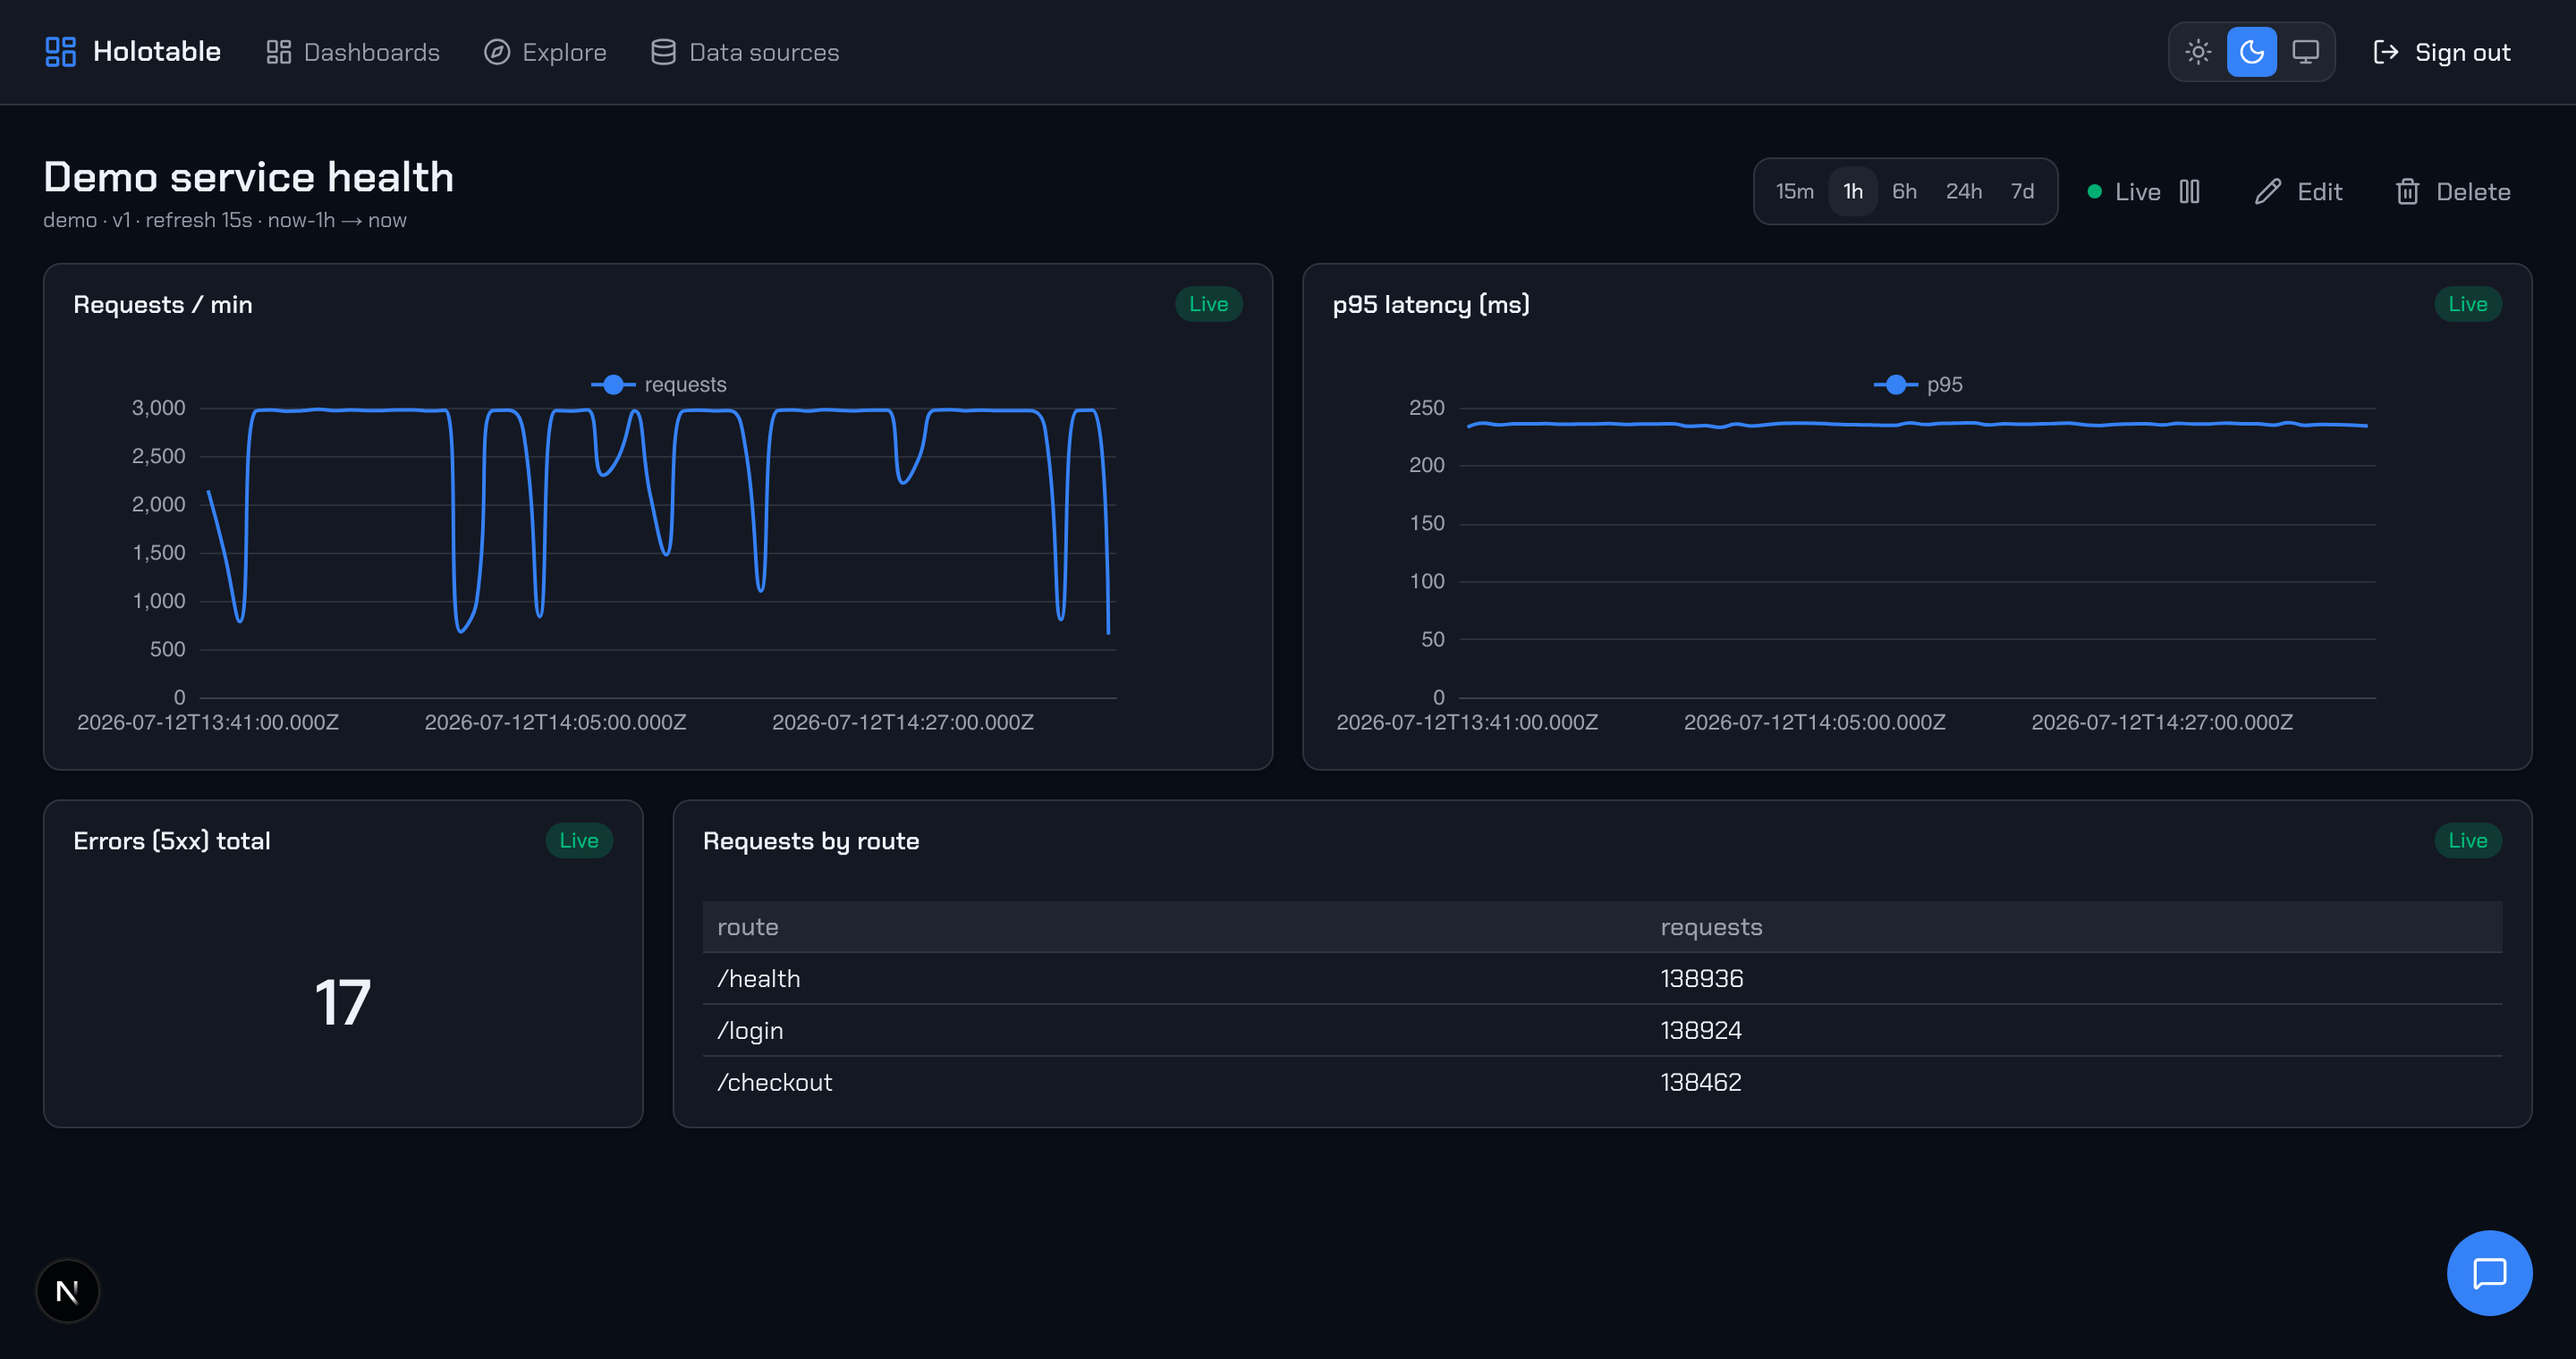
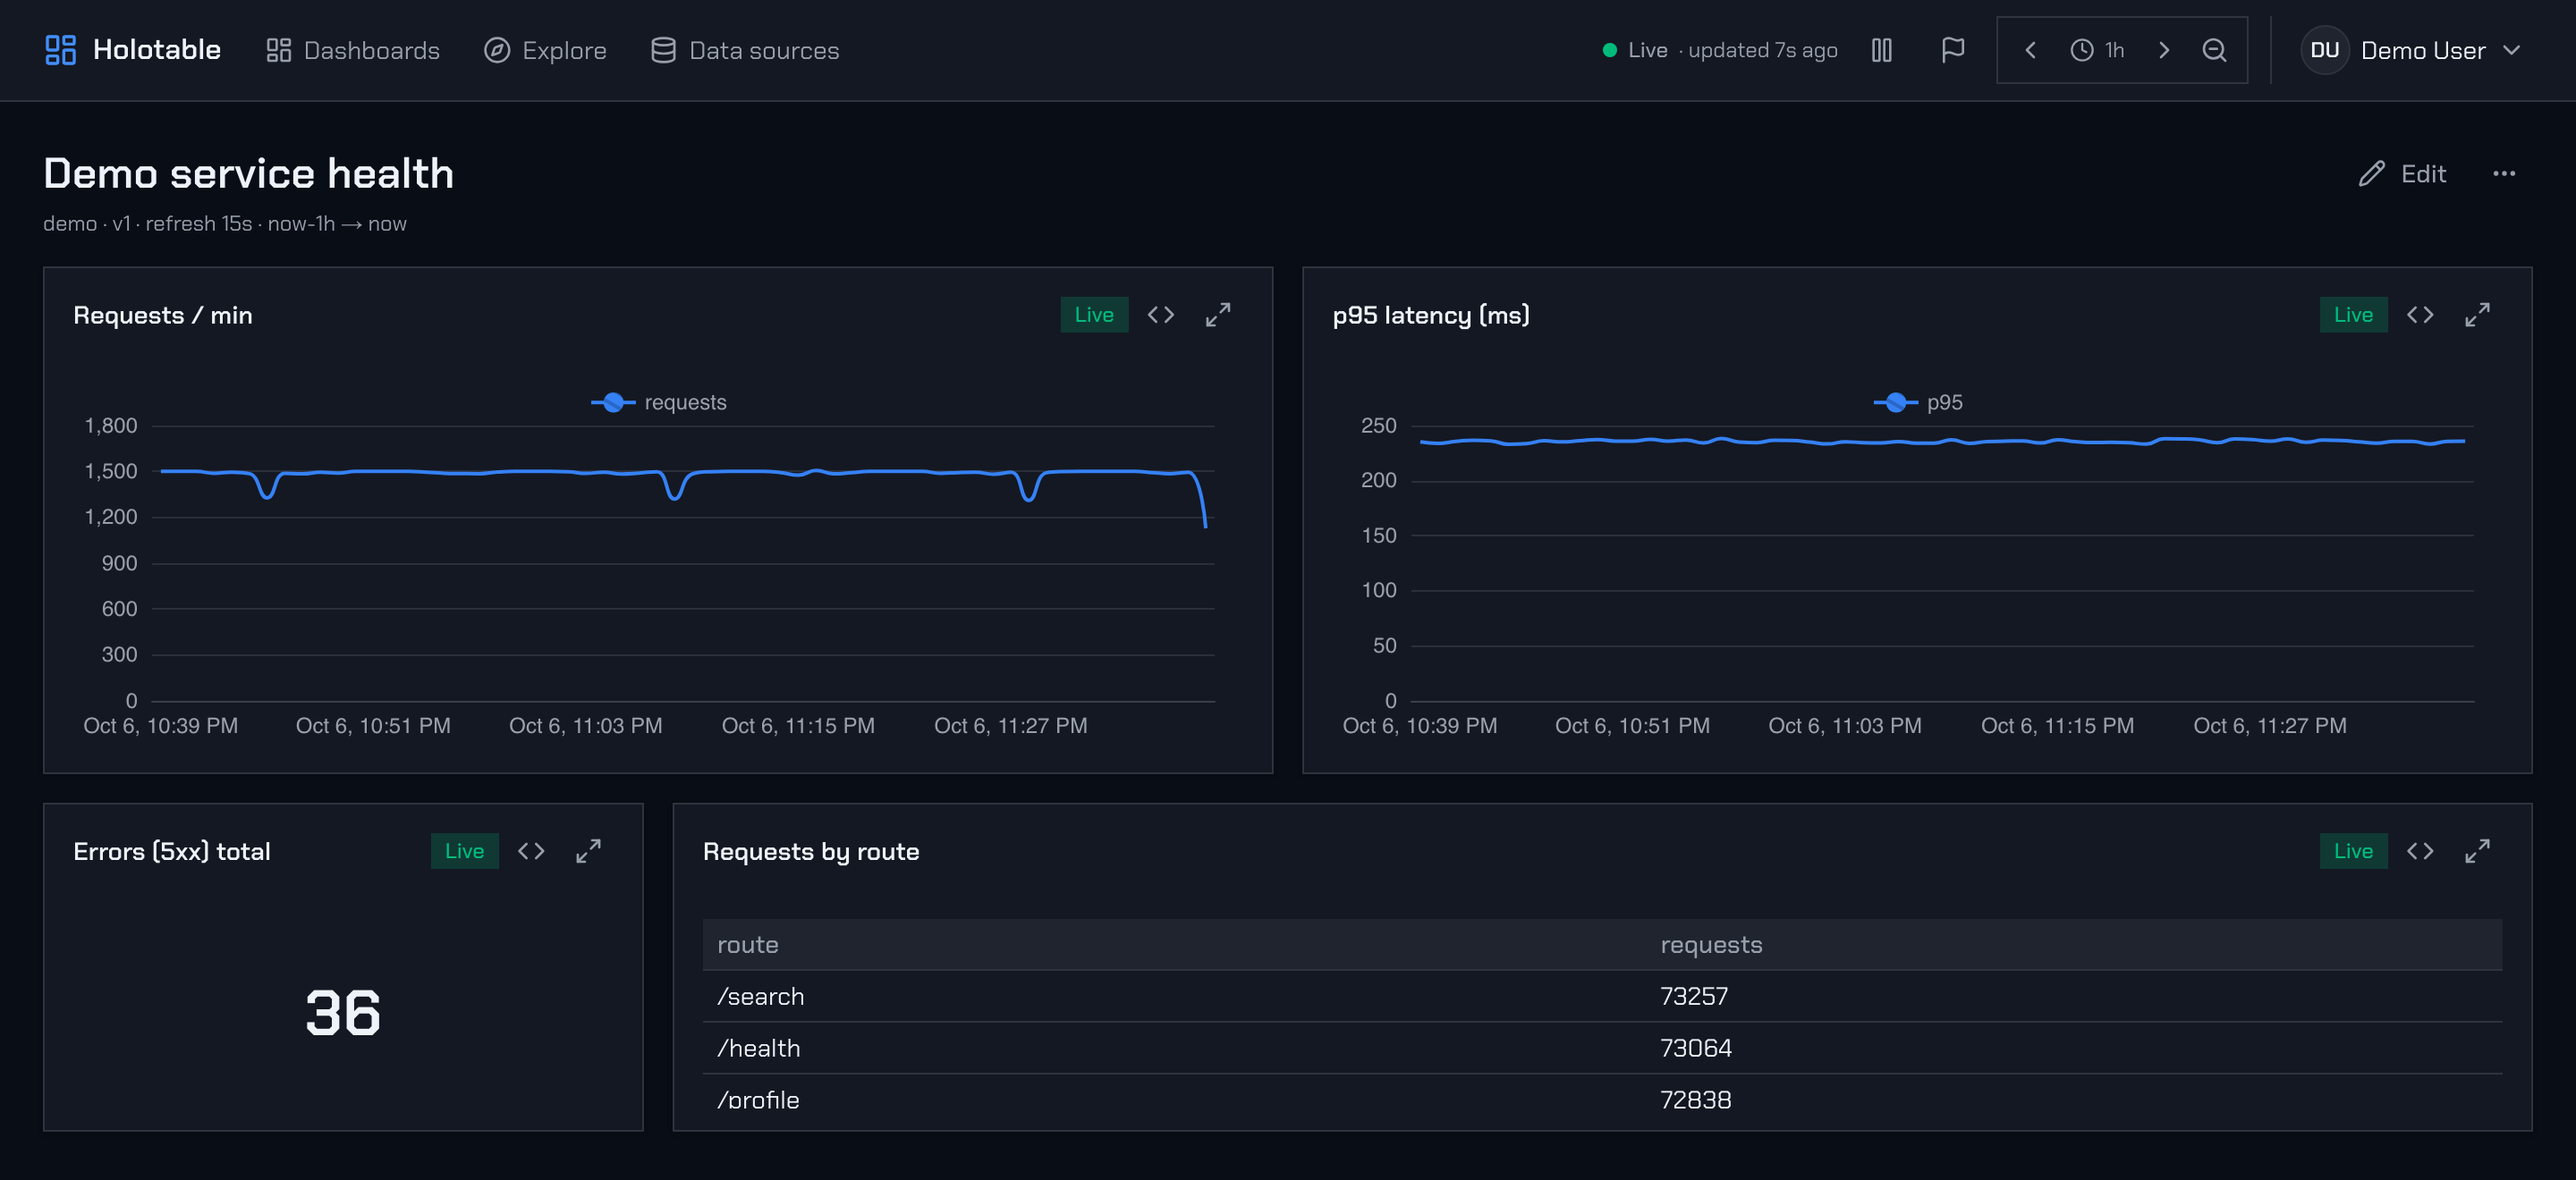
docs: refresh the screenshots and move links to the new docs URL
The docs site moved from holotable-docs.beskar.workers.dev (no longer
resolving) to holotable-docs.vibeproject.workers.dev. Every reference is
updated: the README, the Helm chart (README, values, NOTES, hpa), the
issue template's contact link, the onboarding link in the app, Astro's
`site`, and the root-link checker's DOCS_SITE.

The two screenshots predate the authoring redesign (#358, #359). They are
retaken from current main at 1440px, 2x, dark theme: the new-dashboard
page with a generated preview beside its versions and the refine box, and
a live dashboard view.

diff --git a/src/lib/onboarding.ts b/src/lib/onboarding.ts
@@ -32,7 +32,7 @@ import type { CatalogHealth } from "@/lib/catalog/health";
  * link to a page points, the README's included.
  */
 export const FIRST_DASHBOARD_DOCS_URL =
-  "https://holotable-docs.beskar.workers.dev/getting-started/your-first-dashboard/";
+  "https://holotable-docs.vibeproject.workers.dev/getting-started/your-first-dashboard/";
 
 export type OnboardingStepId = "connect" | "verify" | "generate";
 

diff --git a/README.md b/README.md
@@ -12,7 +12,7 @@ TimescaleDB/PostgreSQL · Vercel AI SDK · Keycloak OIDC · Server-Sent Events. 
 shared Zod IR (`src/lib/ir.ts`) is the contract between the model, the API,
 persistence and the browser.
 
-![New dashboard — natural-language authoring with starter prompts](docs/public/images/dashboard-new.png)
+![New dashboard — a generated dashboard previewed with live data, beside its versions and the refine box](docs/public/images/dashboard-new.png)
 
 ![Live dashboard view — request rate, p95 latency, 5xx count, and requests by route](docs/public/images/dashboard-view.png)
 
@@ -34,21 +34,21 @@ cp .env.example .env    # then set SESSION_SECRET, AI_MODEL and its key, and
 docker compose up
 ```
 
-The [quick start](https://holotable-docs.beskar.workers.dev/getting-started/quick-start/)
+The [quick start](https://holotable-docs.vibeproject.workers.dev/getting-started/quick-start/)
 covers both, Helm, and the development loop.
 
 ## Documentation
 
 Everything is explained once, on the docs site
-(<https://holotable-docs.beskar.workers.dev>, source in [`docs/`](docs/)):
+(<https://holotable-docs.vibeproject.workers.dev>, source in [`docs/`](docs/)):
 
-- [Your first dashboard](https://holotable-docs.beskar.workers.dev/getting-started/your-first-dashboard/) — from an empty install to a live dashboard over your own database.
-- [How it works](https://holotable-docs.beskar.workers.dev/concepts/how-it-works/) — a panel from prompt to live chart.
-- [Invariants](https://holotable-docs.beskar.workers.dev/architecture/invariants/) — the guarantees the design rests on.
-- [Configuration](https://holotable-docs.beskar.workers.dev/reference/configuration/) — every environment variable, generated from `src/lib/config.ts`.
-- [Keycloak setup](https://holotable-docs.beskar.workers.dev/operations/keycloak/) — the OIDC client and group mapper.
-- [API routes](https://holotable-docs.beskar.workers.dev/reference/api-routes/) and [Deploying on Kubernetes](https://holotable-docs.beskar.workers.dev/operations/kubernetes/).
-- [Writing specs with Claude Code](https://holotable-docs.beskar.workers.dev/getting-started/writing-specs-with-claude-code/) — the `/holotable` skill in `.claude/skills/holotable/` writes, reviews and fixes dashboard specs from your terminal.
+- [Your first dashboard](https://holotable-docs.vibeproject.workers.dev/getting-started/your-first-dashboard/) — from an empty install to a live dashboard over your own database.
+- [How it works](https://holotable-docs.vibeproject.workers.dev/concepts/how-it-works/) — a panel from prompt to live chart.
+- [Invariants](https://holotable-docs.vibeproject.workers.dev/architecture/invariants/) — the guarantees the design rests on.
+- [Configuration](https://holotable-docs.vibeproject.workers.dev/reference/configuration/) — every environment variable, generated from `src/lib/config.ts`.
+- [Keycloak setup](https://holotable-docs.vibeproject.workers.dev/operations/keycloak/) — the OIDC client and group mapper.
+- [API routes](https://holotable-docs.vibeproject.workers.dev/reference/api-routes/) and [Deploying on Kubernetes](https://holotable-docs.vibeproject.workers.dev/operations/kubernetes/).
+- [Writing specs with Claude Code](https://holotable-docs.vibeproject.workers.dev/getting-started/writing-specs-with-claude-code/) — the `/holotable` skill in `.claude/skills/holotable/` writes, reviews and fixes dashboard specs from your terminal.
 
 ## Contributing, security, license
 

diff --git a/deploy/helm/holotable/README.md b/deploy/helm/holotable/README.md
@@ -33,7 +33,7 @@ helm install holotable deploy/helm/holotable \
    cluster. The migration Job creates the schema on first install.
 
 3. **A Keycloak realm.** OIDC is the only way to sign in; there is no local
-   login. See [Keycloak setup](https://holotable-docs.beskar.workers.dev/operations/keycloak/).
+   login. See [Keycloak setup](https://holotable-docs.vibeproject.workers.dev/operations/keycloak/).
 
 4. **A Secret** holding the credential environment. The chart never generates
    one for you — see below.
@@ -72,7 +72,7 @@ can:
 
 A source whose ref is granted but has no credentials saves fine and fails on
 **Test**. See
-[Source secret references](https://holotable-docs.beskar.workers.dev/operations/secret-references/).
+[Source secret references](https://holotable-docs.vibeproject.workers.dev/operations/secret-references/).
 
 Three wirings, each a runnable values file in [`examples/`](examples):
 
@@ -116,7 +116,7 @@ The three settings below are one mechanism, not three independent knobs.
 Together: no request is routed to a pod that is going away, open SSE streams
 get a reconnect hint with a randomized delay, in-flight queries finish, and the
 process exits 0. [Health, readiness, and
-shutdown](https://holotable-docs.beskar.workers.dev/operations/health-checks/) has the
+shutdown](https://holotable-docs.vibeproject.workers.dev/operations/health-checks/) has the
 full sequence.
 
 ## Migrations
@@ -163,7 +163,7 @@ own cursor.
 
 The HPA and PDB templates are here because a chart without them is incomplete,
 not because scaling out is supported. One instance is the supported topology;
-[Scaling and the poller](https://holotable-docs.beskar.workers.dev/architecture/scaling/)
+[Scaling and the poller](https://holotable-docs.vibeproject.workers.dev/architecture/scaling/)
 says why and what an extraction would take. `NOTES.txt` says so again after any
 install that raises the replica count.
 
@@ -211,7 +211,7 @@ alongside the release, with `bearerTokenSecret` pointing at the same Secret key.
 | `app.shutdownGraceMs` | `10000` | `SHUTDOWN_GRACE_MS`. Sizes the grace period. |
 | `app.preStopSleepSeconds` | `5` | preStop sleep before SIGTERM. |
 | `app.command` / `app.args` | `[]` | Entrypoint override. Needed only to source an injected environment file (see the Vault example). |
-| `config` | `{}` | Non-secret environment, rendered into a ConfigMap. Any variable from the [configuration reference](https://holotable-docs.beskar.workers.dev/reference/configuration/). |
+| `config` | `{}` | Non-secret environment, rendered into a ConfigMap. Any variable from the [configuration reference](https://holotable-docs.vibeproject.workers.dev/reference/configuration/). |
 | `extraEnv` | `[]` | Raw `env` entries, for a single key from a Secret via `valueFrom`. |
 | `extraEnvFrom` | `[]` | Extra `envFrom` sources, by name. |
 | `extraVolumes` / `extraVolumeMounts` | `[]` | Applied to the app **and** the migration Job. |
